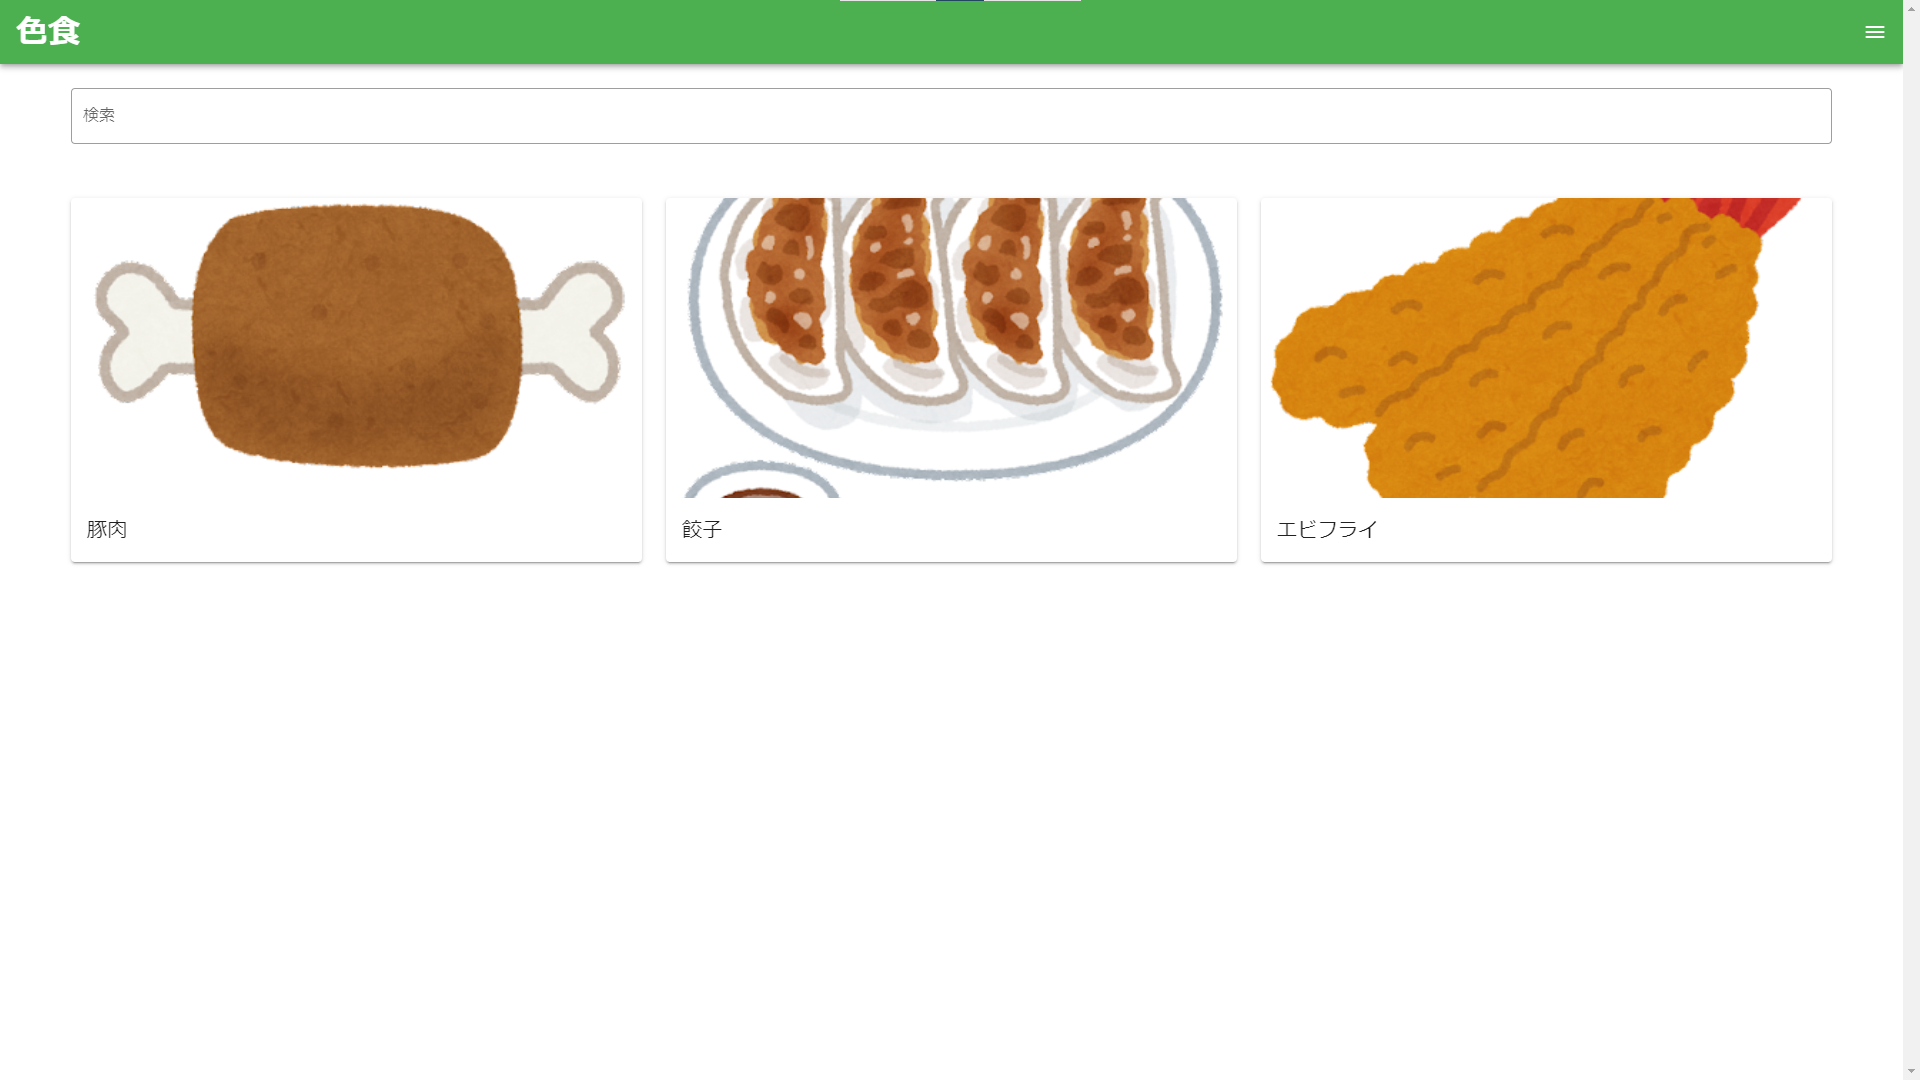
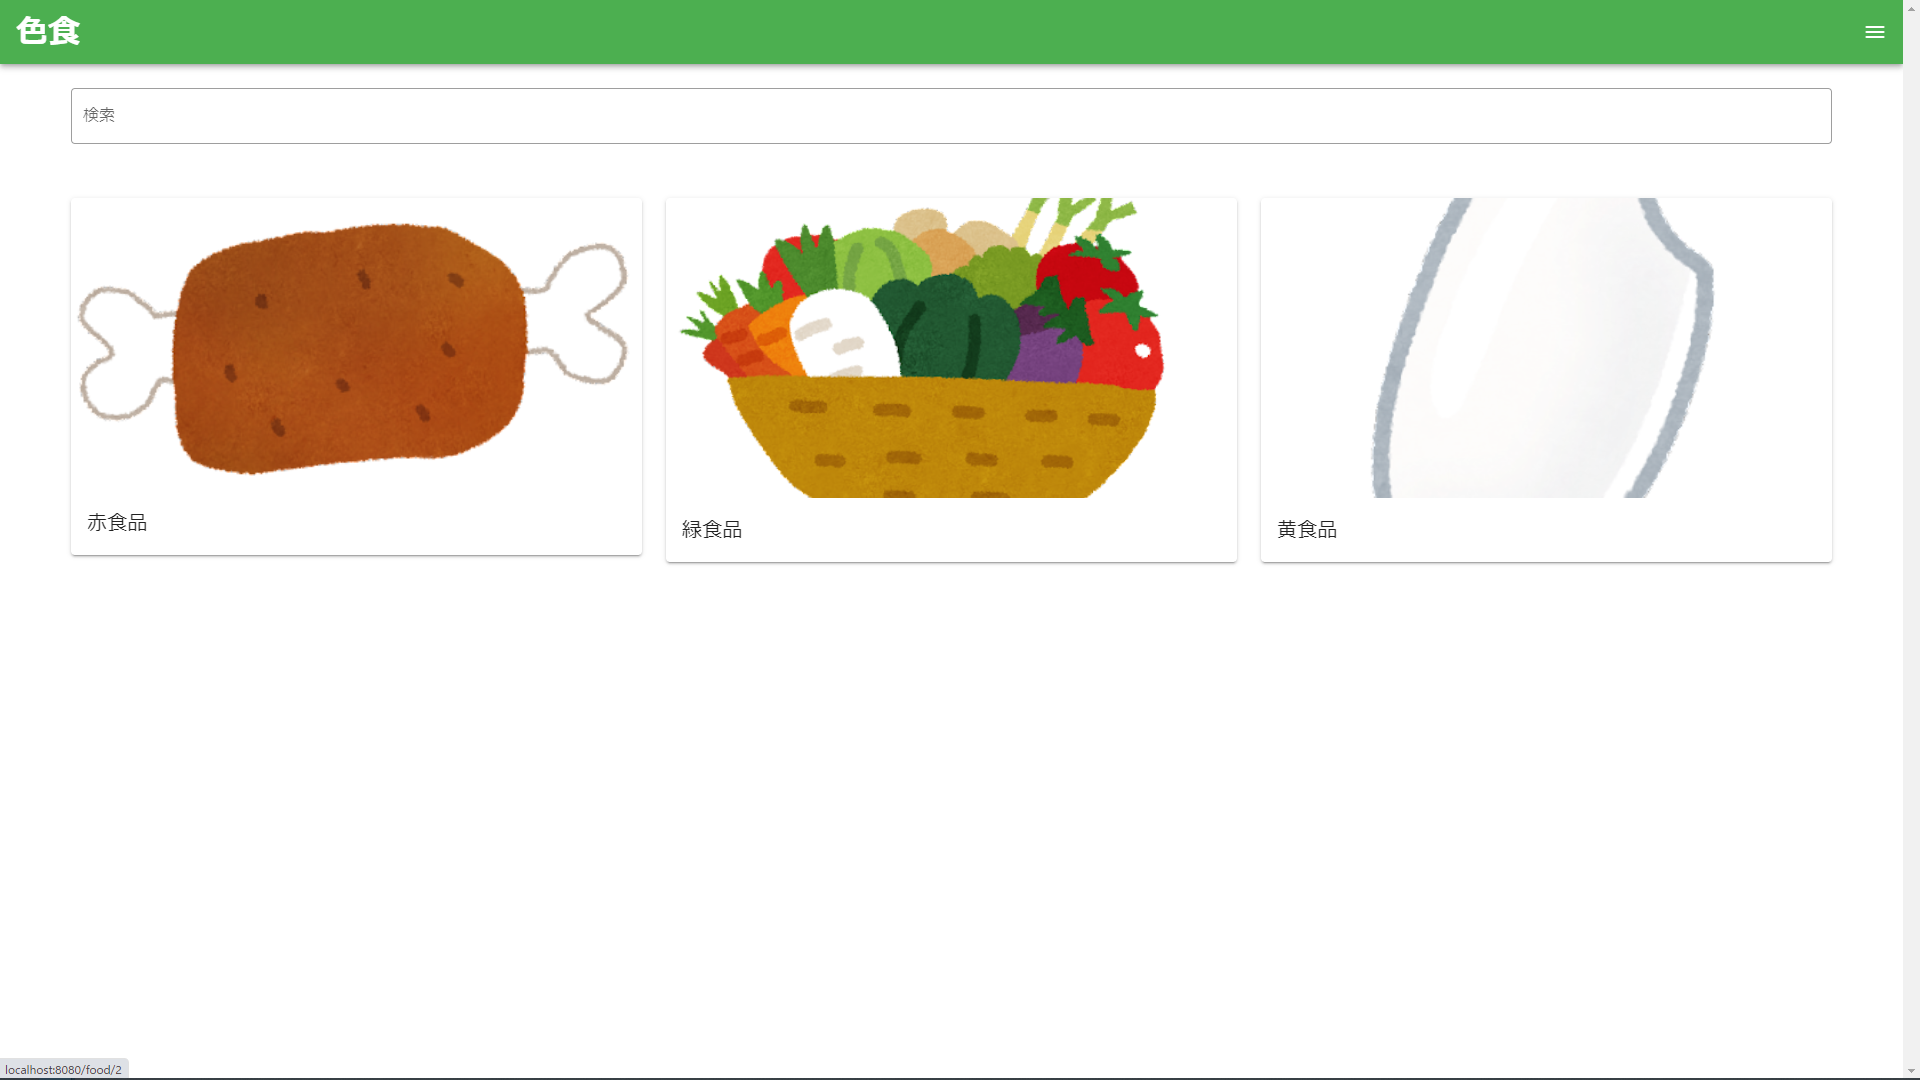
add: food

diff --git a/vue/src/views/Food.vue b/vue/src/views/Food.vue
@@ -1,19 +1,26 @@
 <template>
-    <v-container>
+    <v-container v-if="this.food">
 
         <v-row>
-            <v-col cols="12" v-if="this.data">
+            <v-col cols="12">
                 <v-card>
-                    <v-img class="mx-auto" max-height="400" max-width="600" :src="this.data.image" />
+                    <v-img class="mx-auto" max-height="400" max-width="600" :src="'/' + this.food.image" />
                     <v-card-title>
-                        {{this.data.name}}
+                        {{this.food.name}}
                     </v-card-title>
                 </v-card>
             </v-col>
         </v-row>
 
-        <v-row class="mt-5">
-            以下この食べ物に合う料理や食材
+        <v-row class="card">
+            <v-col cols="6" md="2" v-for="(food, i) in this.color" :key="i">
+                <v-card :to="'/food/' + String(food.id)">
+                    <v-img max-height="300" :src="'/' + food.image" />
+                    <v-card-title>
+                        {{food.name}}
+                    </v-card-title>
+                </v-card>
+            </v-col>
         </v-row>
 
     </v-container>
@@ -24,11 +31,22 @@
     name: 'Food',
     computed: {
         data() {
-            return this.$store.state.data.filter(data => data.id == this.$route.params.id)[0];
-        }
+            return this.$store.state.data.food;
+        },
+        food() {
+            if(this.data) return this.data.filter(data => data.id == this.$route.params.id)[0];
+            else return '';
+        },
+        color() {
+            if(this.data) return this.data.filter(data => data.color != this.food.color);
+            else return '';
+        },
     },
     created(){
         this.$store.dispatch('get', {url: 'food'});
+    },
+    watch: {
+        data(){},
     },
   }
 </script>

diff --git a/vue/src/views/Index.vue b/vue/src/views/Index.vue
@@ -13,9 +13,9 @@
         </v-row>
 
         <v-row class="card">
-            <v-col cols="6" md="4" v-for="(food, i) in this.searchData" :key="i">
-                <v-card :to="'food/' + String(food.id)">
-                    <v-img max-height="300" :src="food.image" />
+            <v-col cols="6" md="3" v-for="(food, i) in this.searchData" :key="i">
+                <v-card :to="'/food/' + String(food.id)">
+                    <v-img max-height="300" :src="'/' + food.image" />
                     <v-card-title>
                         {{food.name}}
                     </v-card-title>
@@ -34,16 +34,21 @@
         }),
         computed: {
             data() {
-                return this.$store.state.data
+                return this.$store.state.data.food
             },
             searchData(){
-                return this.data.filter(data => {
-                    return data.name.includes(this.search)
-                })
+                if(this.data){
+                    return this.data.filter(data => {
+                        return data.name.includes(this.search);
+                    })
+                }else return '';
             }
         },
         created(){
             this.$store.dispatch('get', {url: 'food'});
+        },
+        watch: {
+            data(){}
         },
     }
 </script>

diff --git a/vue/src/store/index.js b/vue/src/store/index.js
@@ -9,8 +9,9 @@ export default new Vuex.Store({
         data: [],
     },
     mutations: {
-        set: (state, response) => {
-            state.data = response.data;
+        set: (state, {response, url}) => {
+            state.data = [url];
+            state.data[url] = response.data;
         },
     },
     actions: {
@@ -18,7 +19,8 @@ export default new Vuex.Store({
             await axios
                 .get('/api/' + url)
                 .then( response =>{
-                    commit('set', response);
+                    let url = response.config.url.replace('/api/', '');
+                    commit('set', {response: response, url: url});
                 })
                 .catch(error => {
                     console.log(error);

diff --git a/laravel/database/seeds/FoodTableSeeder.php b/laravel/database/seeds/FoodTableSeeder.php
@@ -12,17 +12,18 @@ class FoodTableSeeder extends Seeder
     public function run()
     {
         //
-        $titles = ['豚肉', '餃子', 'エビフライ'];
+        $titles = ['赤食品', '緑食品', '黄食品'];
         $details = [
-            'https://1.bp.blogspot.com/-b5NJr3pGOUQ/X1CLEompXGI/AAAAAAABa0s/kG7wKCIsaok3ECvNcIwKZE8T-jk8rTevgCNcBGAsYHQ/s400/niku_manga.png',
-            'https://1.bp.blogspot.com/-WxOp8O_dBbc/Vq88pc0hHGI/AAAAAAAA3dA/u0bHOFGUabY/s400/food_gyouza_mise.png',
-            'https://1.bp.blogspot.com/-N4wY9yIahmw/XVKf6aSOBZI/AAAAAAABUFs/ENGPYG_Cq7kP5TWvamiXS5Ak_Q5NFsyuwCLcBGAs/s400/food_ebi_fry_set.png'
+            'images/manga_niku.png',
+            'images/vegetable.png',
+            'images/kome_hakumai.png'
         ];
 
         foreach ($titles as $index => $title) {
             DB::table('food')->insert([
                 'name' => $title,
                 'image' => $details[$index],
+                'color' => ($index + 1),
                 'created_at' => new DateTime(),
                 'updated_at' => new DateTime(),
             ]);

diff --git a/laravel/database/migrations/2021_09_25_043935_create_food_table.php b/laravel/database/migrations/2021_09_25_043935_create_food_table.php
@@ -17,6 +17,7 @@ class CreateFoodTable extends Migration
             $table->bigIncrements('id');
             $table->string('name', 100);
             $table->string('image')->nullable()->default(null);
+            $table->integer('color')->default(0);
             $table->timestamps();
         });
     }

diff --git a/readme.md b/readme.md
@@ -1,9 +1,8 @@
 # 色食(しきしょく)
+> シスジャム2021 優秀賞作品
 
-## シスジャム2021 優秀賞作品
+## 野菜や副食をプラスし、栄養満点で見栄えも良い料理を！
 
-野菜や副食をプラスし、栄養満点で見栄えも良い料理を！
+<img height="300" alt="ホーム画面" src="presentation/images/home.png">
 
-<img height="250" alt="ホーム画面" src="presentation/images/home.png">
-
-<img height="250" alt="詳細？画面" src="presentation/images/list.png">
+<img height="300" alt="詳細？画面" src="presentation/images/list.png">
